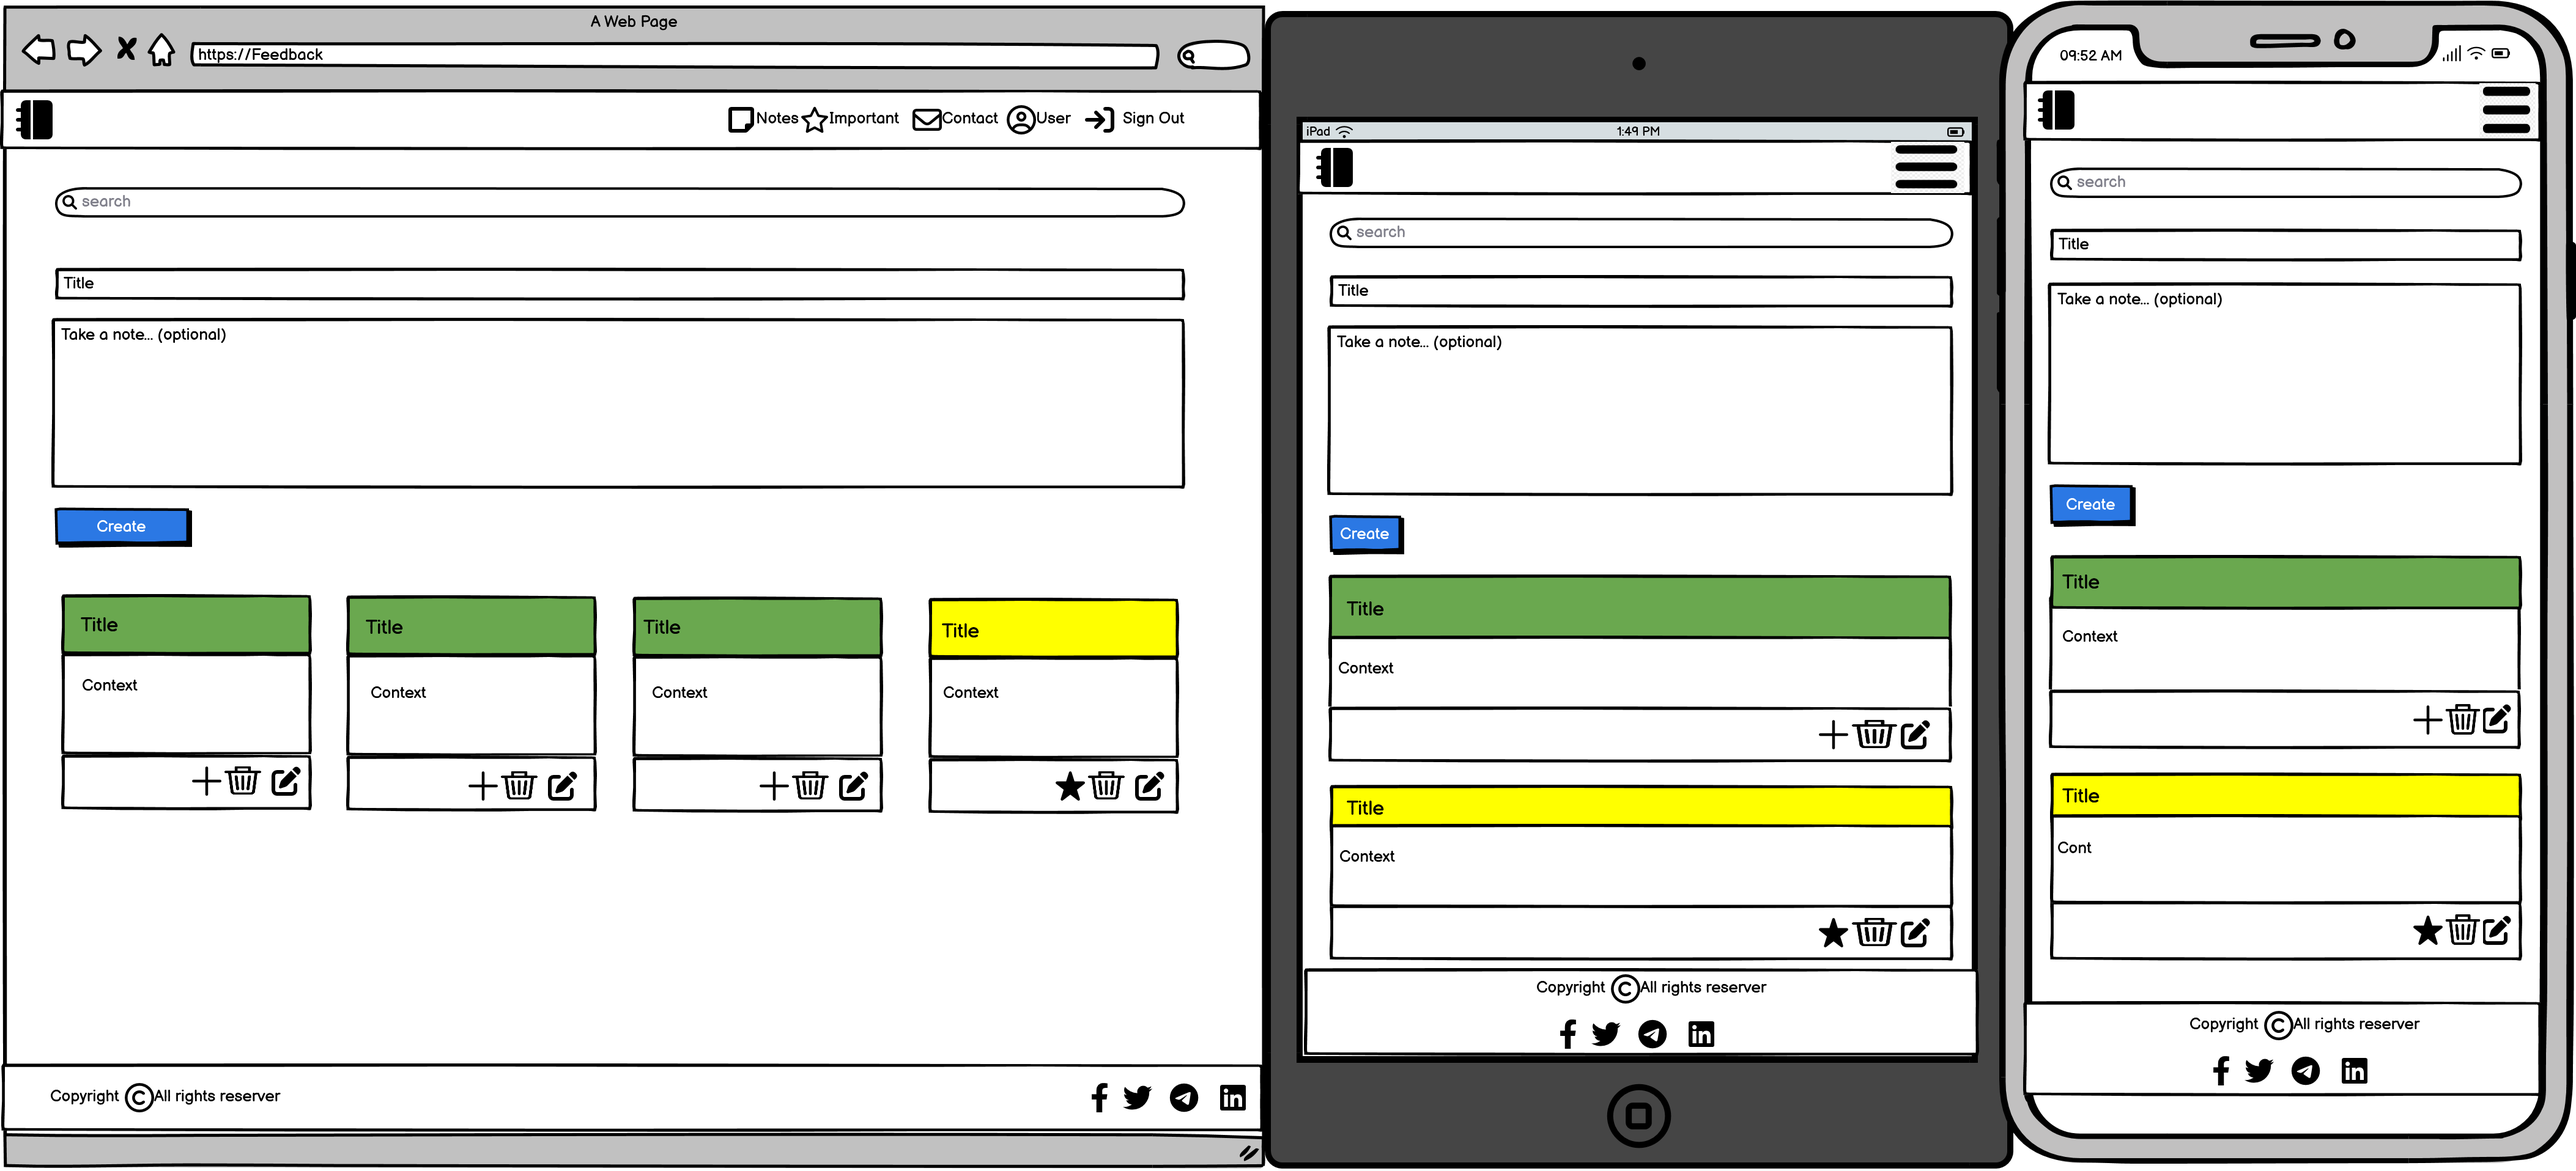
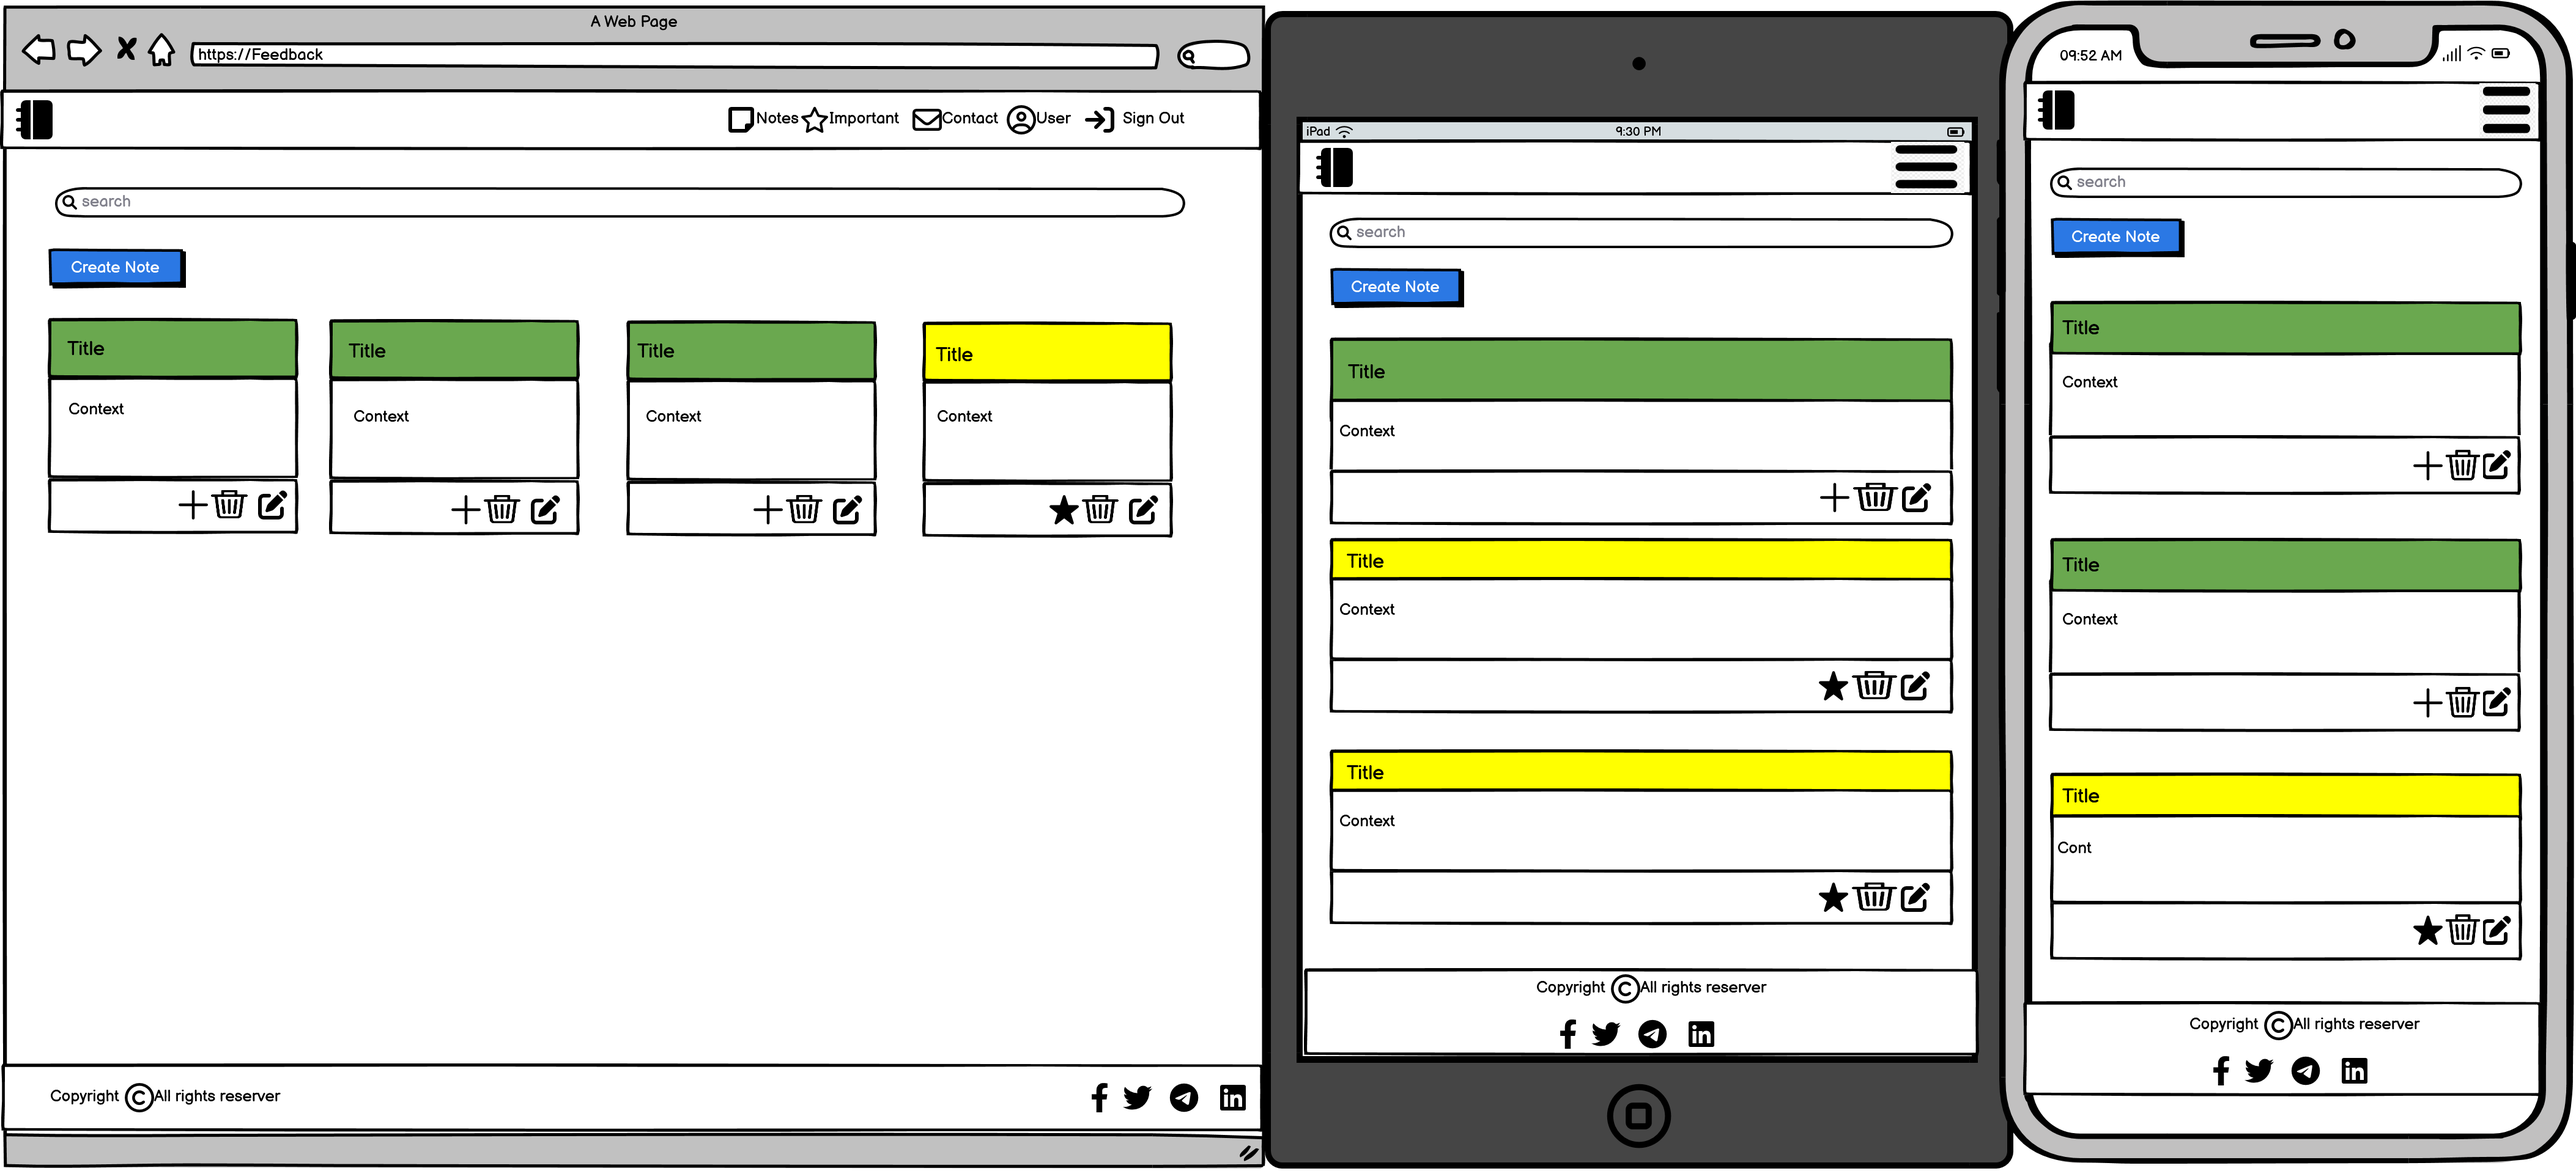
since i separated all note page and create page I added addition wireframe for create note, and modified the wireframe for note

diff --git a/src/pages/notes/CreateArea.js b/src/pages/notes/CreateArea.js
@@ -7,6 +7,7 @@ import { axiosReq } from "../../api/axiosDefaults";
 import btnStyles from "../../styles/Button.module.css";
 import PropTypes from 'prop-types';
 import { useHistory } from "react-router";
+import AddBoxIcon from '@mui/icons-material/AddBox';
 
 function CreateArea(props) {
   const history = useHistory();
@@ -63,7 +64,15 @@ function CreateArea(props) {
           </Alert>
         )}
       </Container>
-      <div>
+      <header>
+      <h1>
+        <AddBoxIcon fontSize="large" />
+        Create a Note
+      </h1>
+    </header>
+
+    <div style={{ marginTop: '20px' }}>
+
         <Form
           className="create-note"
           onSubmit={(event) => {

diff --git a/src/components/Footer.js b/src/components/Footer.js
@@ -12,7 +12,7 @@ function Footer() {
         style={{ backgroundColor: "#004085", minHeight: "50px" }}
       >
         <div className="text-white mb-3 mb-md-0">
-          Copyright © 2024.
+          Copyright © 2024.All rights reserverd
         </div>
         <div>
           <a href="https://www.facebook.com/" className="text-white me-4" aria-label="Facebook">

diff --git a/README.md b/README.md
@@ -191,6 +191,9 @@ The website has been designed using Google Fonts. The “Poppins” font, with s
 <details><summary>Contact Form</summary>
     <img src="docs/wireframes/contactform.png">
 </details>
+<details><summary>Create Note Page</summary>
+    <img src="docs/wireframes/createnote.png">
+</details>
 <details><summary>Main Note Page</summary>
     <img src="docs/wireframes/notes.png">
 </details>
